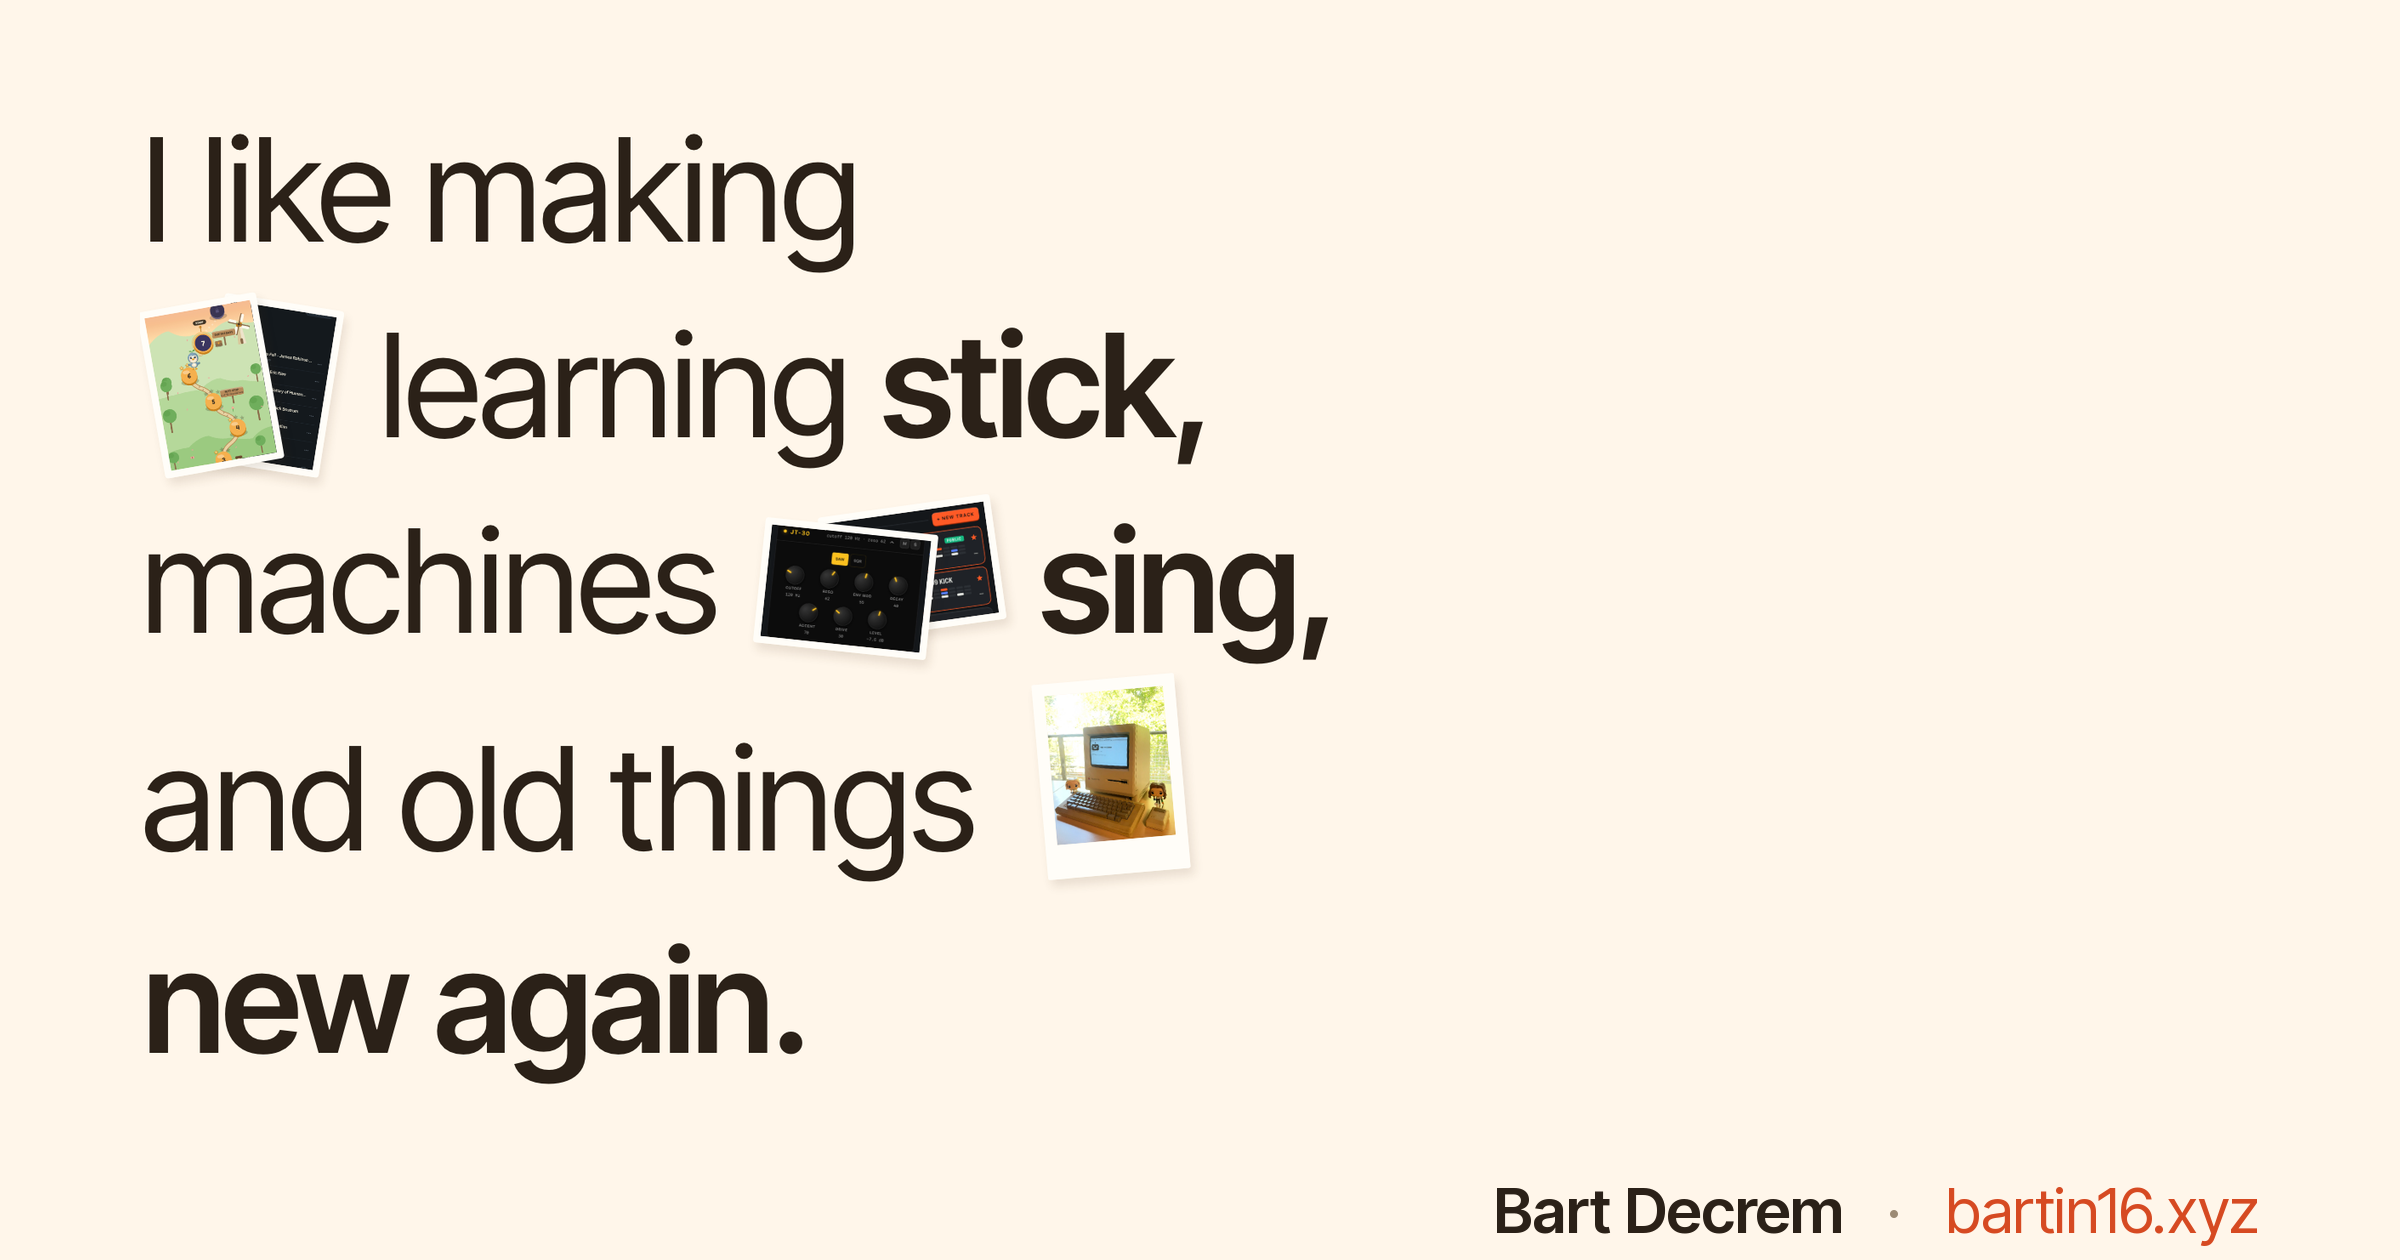
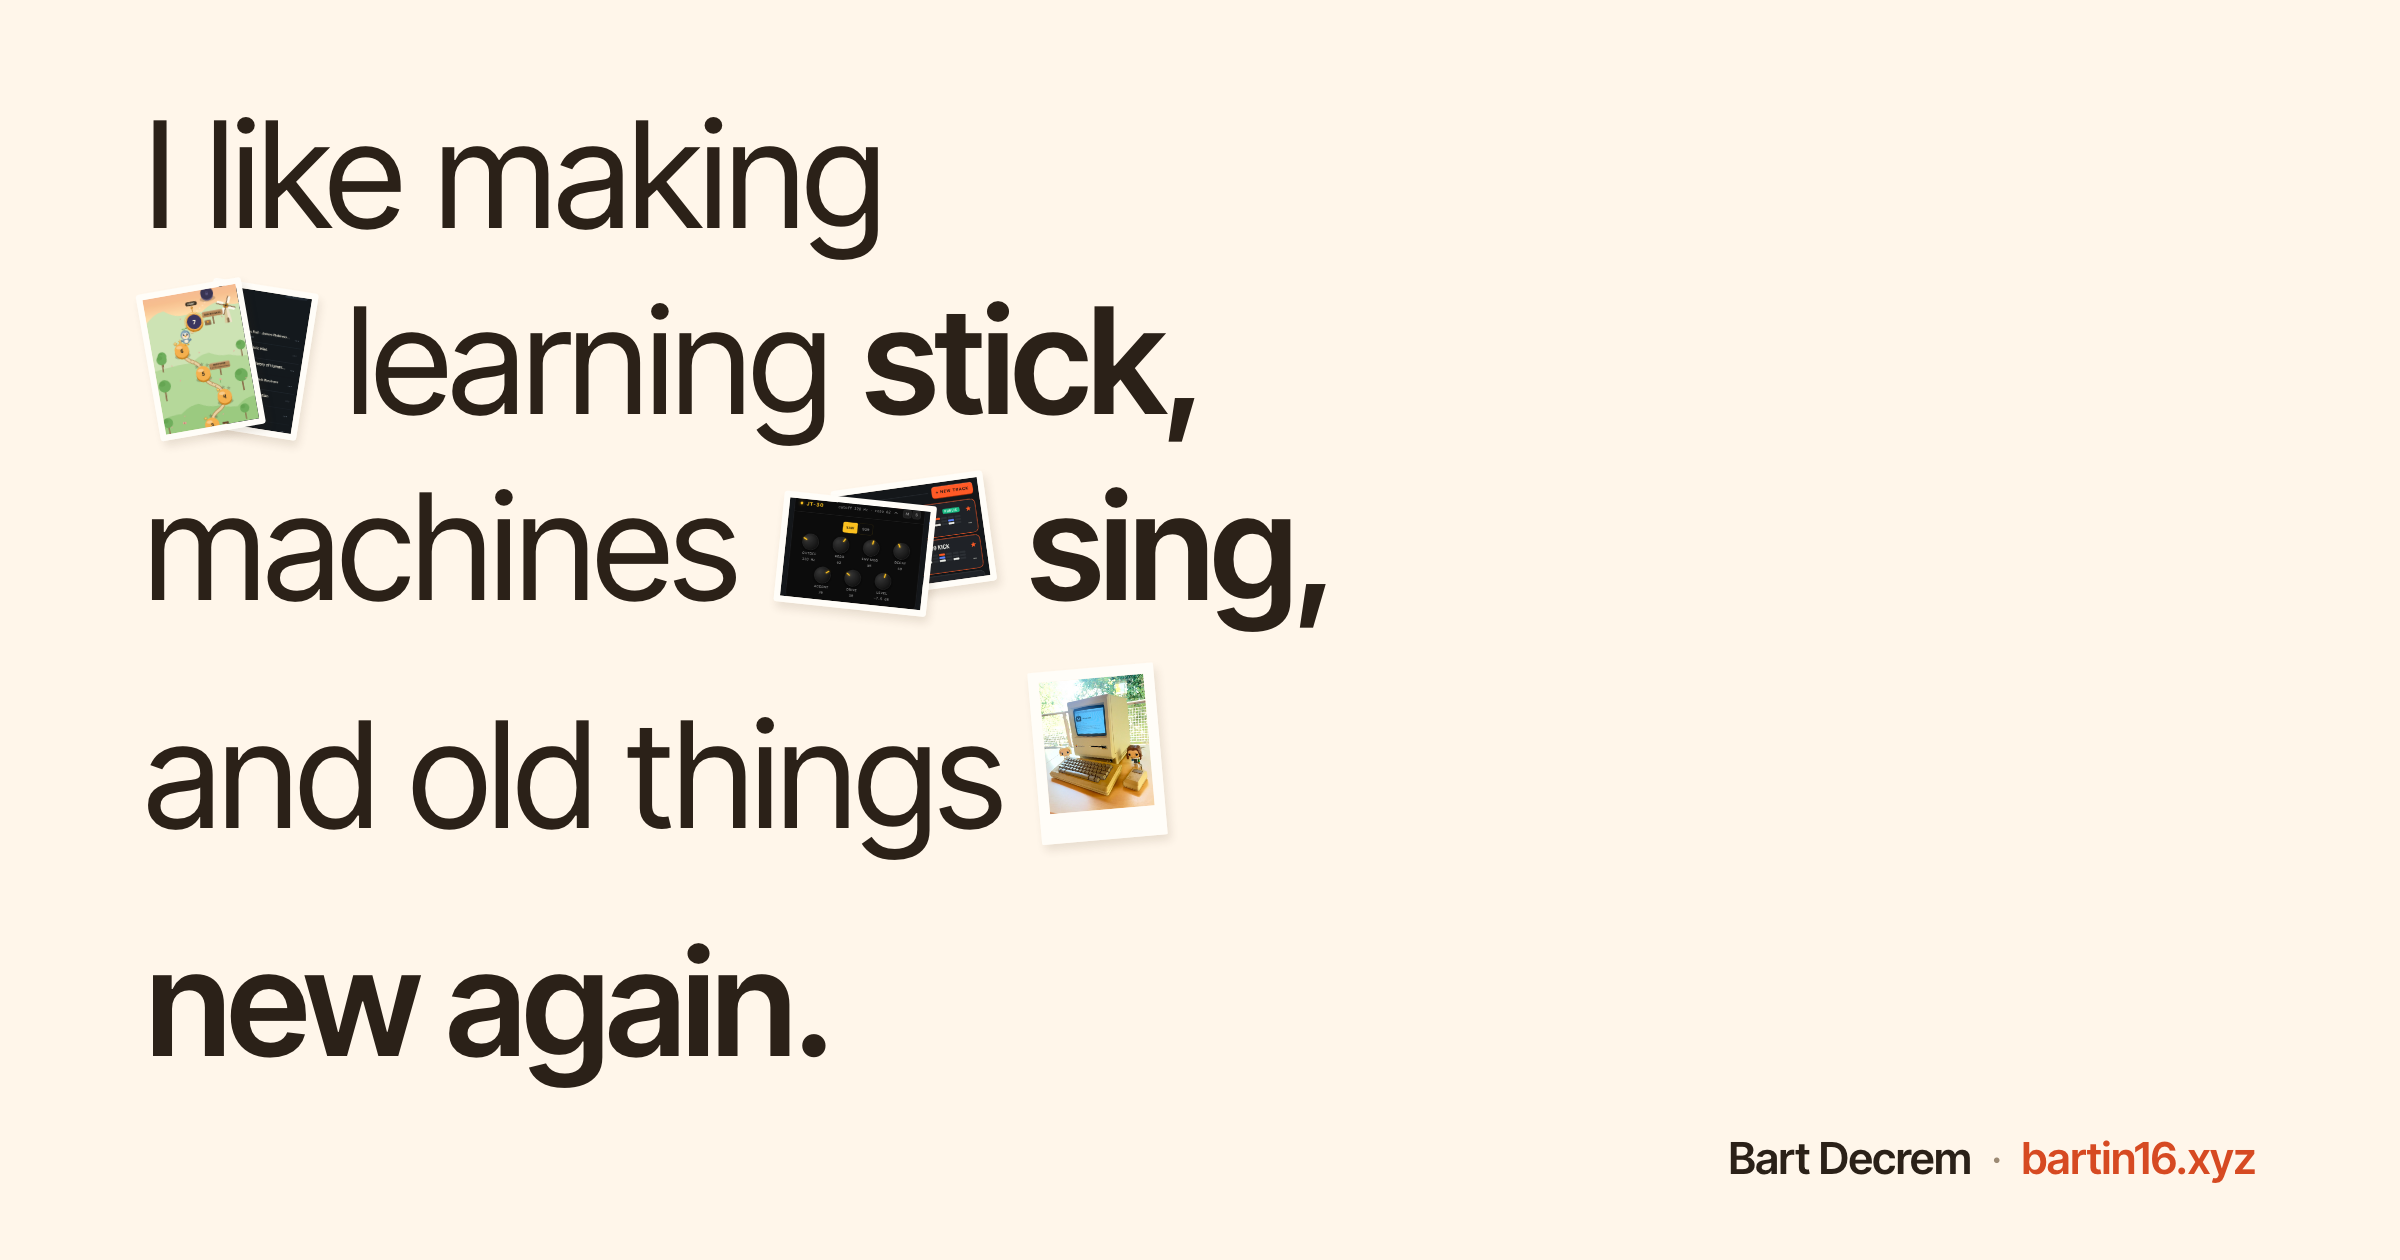
bartin16: a bigger hover on the three photos, and the new Mac Plus shot
- Desktop hover zooms each object 30% larger (--hz / --hzm in styles.ts are the
  only numbers to turn). The lift pins each photo's bottom edge where it already
  sat, so a bigger photo grows upward instead of down into its address label.
  Touch is untouched: a tap still lifts the object to 3x over the scrim.
- The Mac Plus photo is the Thursday shot (1650x2200, from misc/THURSDAY-macplus.png).
  Its 3:4 frame matches the polaroid's 84x115 almost exactly, so the crop is the
  photograph.
- The README that photo links to has no pictures in it, so a hover-only "full
  photo" micro-link under the address opens the JPG full size. Hidden at rest and
  on touch; the poster at /hi/card doesn't pick it up.
- scripts/hi/make-og.mjs rebuilds public/hi/og.png from the live page, so the
  share card can't drift from the sentence or the photos again.

decremental.com and bartin16.xyz are the same route, so both get all of it.

Claude-Session: https://claude.ai/code/session_01P7dRvkzqAenUo6Frp7yBJZ

diff --git a/src/app/hi/_alts/styles.ts b/src/app/hi/_alts/styles.ts
@@ -780,16 +780,31 @@ button:focus-visible,a:focus-visible {
   object-position: center 34%;
 }
 
+/* Desktop hover zoom. --hz (the paired photos) and --hzm (the Mac) are the only
+   numbers to turn; both were 1.22 / 1.16 until 2026-09-10 and are now 30% larger.
+   Everything else is derived so the lift keeps its shape as they grow: x spreads
+   in proportion to the zoom, and y pins the photo's bottom edge where it already
+   sits (front 96px, back 102px, Mac 114px from the object's top) so a bigger
+   photo grows upward instead of down into its address label.
+     front y = 96  - (49.5 + 49.5 * hz)   back y = 102 - (49.5 + 49.5 * hz)
+     mac   y = 114 - (57.5 + 57.5 * hzm)                                      */
 @media (hover: hover) {
+  .edition-three {
+    --hz: 1.586;
+    --hzm: 1.508;
+  }
+  .inline-object:hover,.inline-object:focus-visible {
+    z-index: 3;
+  }
   .inline-object:hover .inline-front,.inline-object:focus-visible .inline-front {
-    transform: translate(-18px,-14px) rotate(-12deg) scale(1.22);
+    transform: translate(calc(-14.75px * var(--hz)),calc(46.5px - 49.5px * var(--hz))) rotate(-12deg) scale(var(--hz));
     box-shadow: 3px 12px 16px #4a301c2e;
   }
   .inline-object:hover .inline-back,.inline-object:focus-visible .inline-back {
-    transform: translate(16px,-8px) rotate(12deg) scale(1.22);
+    transform: translate(calc(13.11px * var(--hz)),calc(52.5px - 49.5px * var(--hz))) rotate(12deg) scale(var(--hz));
     box-shadow: 3px 12px 16px #4a301c2e;
   }
-  .inline-object:hover .object-index,.inline-object:focus-visible .object-index {
+  .inline-object:hover .object-index,.inline-object:focus-visible .object-index,.mac-slot:hover .object-index {
     opacity: 1;
     color: var(--clay);
   }
@@ -886,6 +901,42 @@ button:focus-visible,a:focus-visible {
   top: -5px;
 }
 
+/* The Mac object is the page's one real photograph, and the README it links to has
+   no pictures in it, so a second micro-link under the address opens the full JPG.
+   Pointer devices only: a touch tap already lifts the photo to 3x over the scrim. */
+.mac-slot {
+  position: relative;
+  display: inline-flex;
+  flex-shrink: 0;
+}
+
+.object-alt {
+  display: none;
+}
+
+@media (hover: hover) {
+  .object-alt {
+    display: block;
+    position: absolute;
+    left: 50%;
+    bottom: -20px;
+    transform: translateX(-50%);
+    white-space: nowrap;
+    font-size: 8px;
+    letter-spacing: .04em;
+    color: var(--muted);
+    text-decoration: none;
+    opacity: 0;
+    transition: opacity .3s;
+  }
+  .mac-slot:hover .object-alt,.object-alt:focus-visible {
+    opacity: 1;
+  }
+  .object-alt:hover,.object-alt:focus-visible {
+    color: var(--clay);
+  }
+}
+
 .inline-mac {
   width: 98px;
   height: 142px;
@@ -903,9 +954,11 @@ button:focus-visible,a:focus-visible {
   transition: transform .5s,box-shadow .4s;
 }
 
-.inline-mac:hover img,.inline-mac:focus-visible img {
-  transform: rotate(-1deg) translateY(-10px) scale(1.16);
-  box-shadow: 3px 12px 16px #4a301c2e;
+@media (hover: hover) {
+  .inline-mac:hover img,.inline-mac:focus-visible img,.mac-slot:hover .inline-mac img {
+    transform: rotate(-1deg) translateY(calc(56.5px - 57.5px * var(--hzm))) scale(var(--hzm));
+    box-shadow: 3px 12px 16px #4a301c2e;
+  }
 }
 
 .inline-mac .object-index {

diff --git a/src/app/hi/home.ts b/src/app/hi/home.ts
@@ -7,7 +7,7 @@ const FLOW = `<main class="three-main">
     <div class="letter-line"><span>I like making</span></div>
     <div class="letter-line"><a class="inline-object inline-dodo" href="https://dodo.foo" target="_blank" rel="noopener" aria-label="Dodo — dodo.foo"><img class="inline-front" src="/hi/alts/assets/dodo-peck.png" alt="Dodo’s playful Peck learning path"><img class="inline-back" src="/hi/alts/assets/dodo-topics.png" alt="Dodo’s topics library"><span class="object-index mono">dodo.foo ↗</span></a><span>learning <em>stick,</em></span></div>
     <div class="letter-line"><span>machines</span><a class="inline-object inline-jam" href="https://jambot.to" target="_blank" rel="noopener" aria-label="Jambot — jambot.to"><img class="inline-front" src="/hi/alts/assets/jambot-controls.png" alt="Jambot synth controls"><img class="inline-back" src="/hi/alts/assets/jambot-tracks.png" alt="Jambot track sequencers"><span class="object-index mono">jambot.to ↗</span></a><span><em>sing,</em></span></div>
-    <div class="letter-line"><span>and old things</span><a class="inline-object inline-mac" href="https://github.com/bdecrem/Macinclaude/blob/main/README.md" target="_blank" rel="noopener" aria-label="Macinclaude on GitHub"><img src="/hi/alts/assets/mac-plus.jpg" alt="The Macintosh Plus on Bart’s desk"><span class="object-index mono">macinclaude ↗</span></a></div>
+    <div class="letter-line"><span>and old things</span><span class="mac-slot"><a class="inline-object inline-mac" href="https://github.com/bdecrem/Macinclaude/blob/main/README.md" target="_blank" rel="noopener" aria-label="Macinclaude on GitHub"><img src="/hi/alts/assets/mac-plus.jpg" alt="The Macintosh Plus on Bart’s desk"><span class="object-index mono">macinclaude ↗</span></a><a class="object-alt mono" href="/hi/alts/assets/mac-plus.jpg" target="_blank" rel="noopener">full photo ↗</a></span></div>
     <div class="letter-line last-letter"><span><em>new again.</em></span></div>
   </div>
   @@BIO@@
